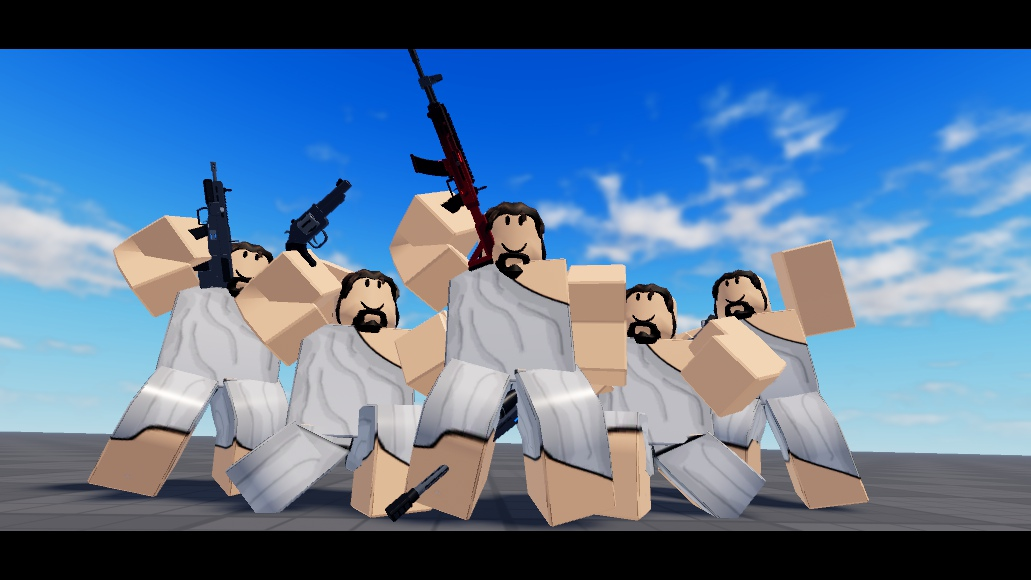
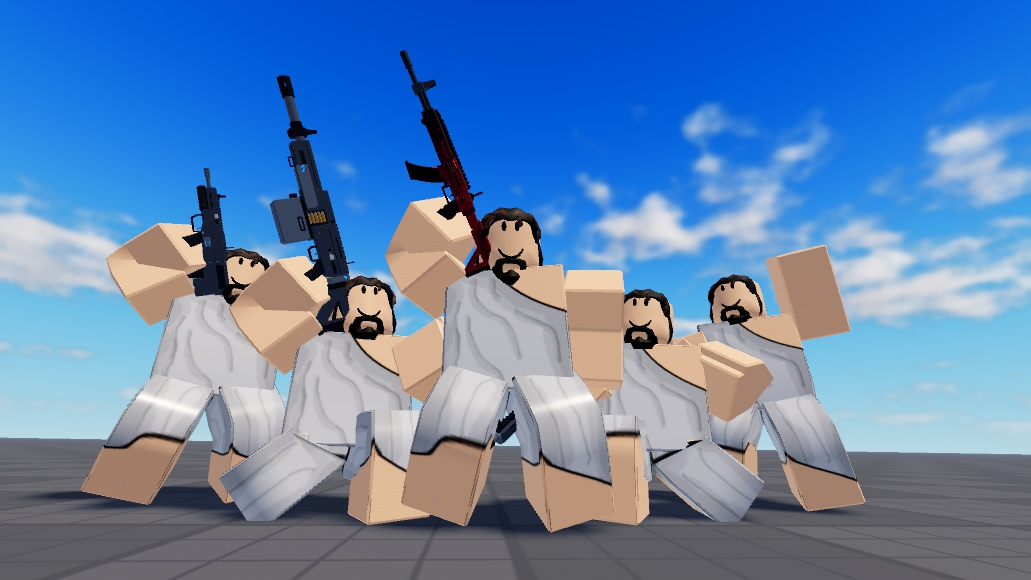
Win cutscene: everyone looks down into the camera on the final pose
Owner: the players need to look down at the camera together at the end.
WinCutscene turns each winner's neck (and a quarter of it in the chest,
about the vertical) toward the camera on top of the clip, eased in from
6.30 to 6.75 s, capped at 70 degrees; computed from the clip's Transform
each frame so it never feeds on its own last turn (no flicker).
Config/WinCutscene LOOK; vault note and captures updated.

diff --git a/vault/02 Art/Win Cutscene.md b/vault/02 Art/Win Cutscene.md
@@ -89,6 +89,12 @@ Owner: "work on 2, 3, 4 and 5 player editions, get everybody to do stuff, the en
 - More than 5 winners: scene 5 plays and the rest stand in `EXTRA_SLOTS` on the lead's clip.
 - Owner's 2-player reference (a RIVALS end screen, git-ignored, not committed): the pair close, #2 lower, the camera very low; a stat plate under each winner and a crown on the best (UI, see What to test).
 
+### Round 5: everyone looks down into the lens
+Owner: "the players need to be looking at the camera at the end, looking down at the camera together; that's going to sell it."
+- `WinCutscene` turns each winner's head (and a little of the chest, about the vertical) toward the camera on top of the clip, every frame of the final shot: eased in from 6.30 to 6.75 (just after the pose lands), capped at 70 degrees from the clip's own head so nothing spins; the hold's breath stays underneath. Numbers: `Config/WinCutscene` `LOOK`.
+- It works from the clip's Transform each frame (the Neck / Waist Motor6Ds of the kinematic copy), not from the drawn head, which already has last frame's turn in it (that version flickered on and off in a dry run). Measured stable frame to frame.
+- Captures: the 5-player final and the solo final in Captures above now show the look.
+
 ### Results UI: winner cards (round 4)
 Owner: "our normal current ending UI shows up at that last scene; add cards and MVP cards for the winning players; maybe we don't need the leaderboard bottom left if it doesn't fit."
 - **The cards** (`ReplicatedStorage.UiTemplates.MatchEnd.Card`, Studio-owned, backup builder `tools/studio/BuildWinnerCard.luau`; filled by `Util/MatchEndScreen.cards`, data from `MatchEndController.showCards`): one per winner in a row along the bottom, each under its winner in the final shot (projected, then pushed apart so none overlap and kept left of the right column). Same look as the rest of the screen: a charcoal plate, the team-colour name block with its slanted cap and the player's headshot, E / D / A cells, damage dealt and taken; Rubik.
@@ -182,6 +188,7 @@ Measured in a play test: the clip and the song stay within 0.02 s of each other 
 - [ ] At a low frame rate (Studio ~15 fps) the cuts still land on the hits and the camera moves smoothly.
 - [ ] The winner holds a pistol or the knife: the hand poses still read (the clips are keyed on the rifle grip).
 - [ ] Each winner holds the gun they got the most eliminations with (a skin shows only if that's the gun they were holding at the end).
+- [ ] On the final pose every winner turns to look down into the camera (from about 6.3 s), and it holds steady (no flicker, no head spinning on the far ones).
 - [ ] The transition: high over the coil, a beat of stillness, the slam to the floor on the 6.14 hit, a small overshoot, the settle.
 - [ ] 2v2 to 5v5: the best performer (MVP, then eliminations, damage) is in the middle; the others stand spread out and each does their own moves; the camera stays on the best one until the final, where everyone is in view. Preview with `PreviewWinCutsceneCount`.
 - [ ] No hand or gun goes through a body or head; hands don't look twisted on the gun.
